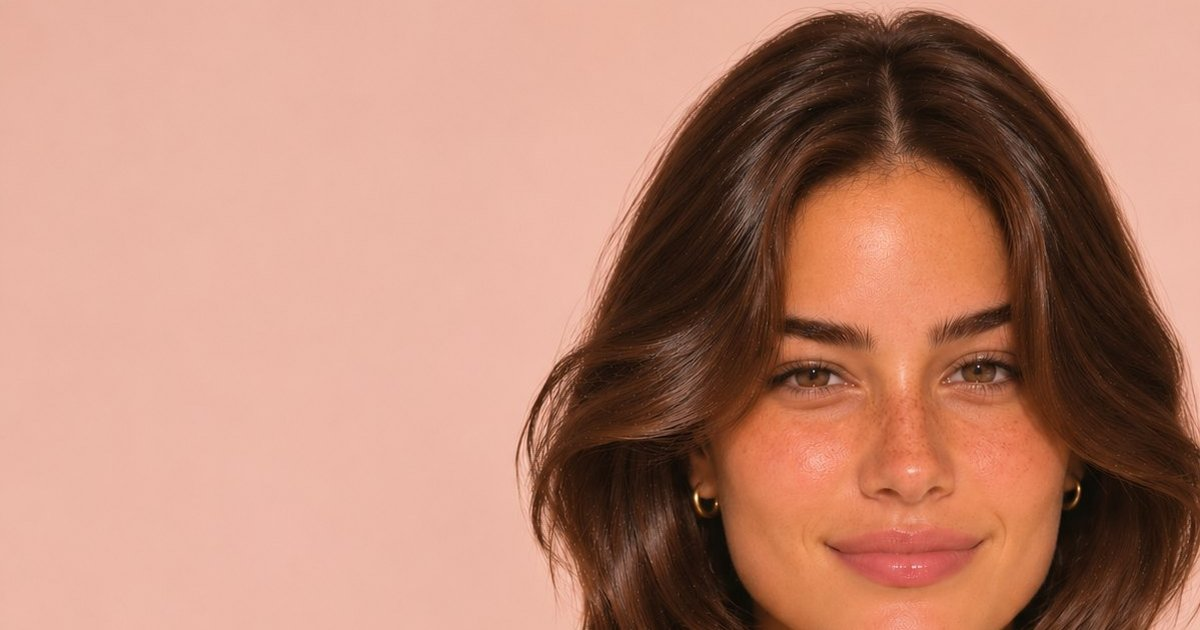
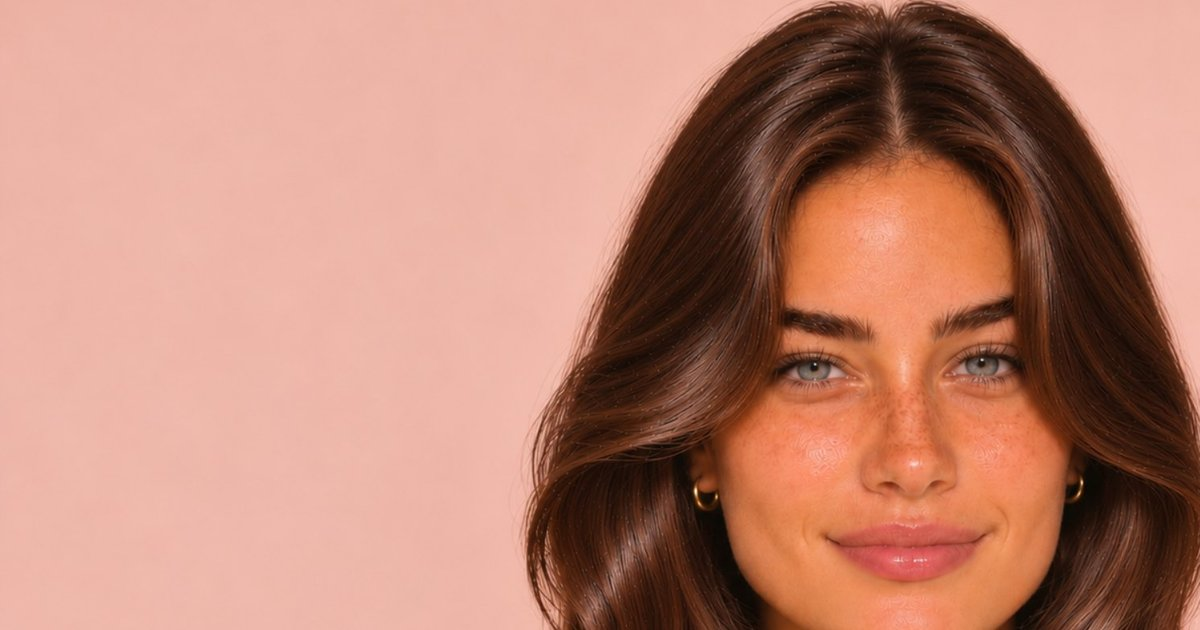
Swap in long-hair model photos for hero and applying
- New hero (holding the serum) and applying photos, black screenshot bars trimmed
- Old bob versions replaced; raw uploads IMG_2281/2282 removed
- Social sharing image rebuilt from the new hero
- Hero background tint matched to the new photo's wall; alt text updated
- Glow journey button kept on one line

Claude-Session: https://claude.ai/code/session_01XS5tgKz7MXN9xJooQaGrRs

diff --git a/components/home/Hero.tsx b/components/home/Hero.tsx
@@ -11,19 +11,19 @@ export function Hero() {
 
   return (
     // The background matches the photo's pink wall so the two blend together.
-    <section className="relative overflow-hidden bg-[#EAB6A6]" aria-labelledby="hero-title">
+    <section className="relative overflow-hidden bg-[#EDB6A9]" aria-labelledby="hero-title">
       {/* Phones: photo on top. Larger screens: photo fills the right side, text sits in the empty space on the left. */}
       <div className="relative aspect-[1199/1150] w-full md:absolute md:inset-y-0 md:right-0 md:aspect-auto md:w-[64%] lg:w-[60%]">
         <Image
           src={hero}
-          alt="smiling woman with a glossy brown bob holding a bottle of velle scalp serum"
+          alt="smiling woman with long, glossy brown waves holding a bottle of velle scalp serum"
           fill
           priority
           placeholder="blur"
           sizes="(min-width: 1024px) 60vw, (min-width: 768px) 64vw, 100vw"
           className="object-cover object-[50%_20%]"
         />
-        <div className="absolute inset-y-0 left-0 hidden w-28 bg-gradient-to-r from-[#EAB6A6] to-transparent md:block" />
+        <div className="absolute inset-y-0 left-0 hidden w-28 bg-gradient-to-r from-[#EDB6A9] to-transparent md:block" />
       </div>
 
       <div className="container-page relative flex md:min-h-[min(84vh,780px)] md:items-center">

diff --git a/components/home/GlowJourney.tsx b/components/home/GlowJourney.tsx
@@ -31,7 +31,7 @@ export function GlowJourney() {
             ))}
           </ol>
           <div className="mt-10 flex flex-col gap-4 md:flex-row md:items-center md:gap-6">
-            <Link href="/#pricing" className="btn-primary self-start">
+            <Link href="/#pricing" className="btn-primary self-start whitespace-nowrap">
               start your glow journey
             </Link>
             <p className="text-sm">cosmetic results with regular use. everyone&apos;s hair is different.</p>
@@ -40,7 +40,7 @@ export function GlowJourney() {
         <div className="relative aspect-[4/5] overflow-hidden rounded-[2rem]">
           <Image
             src={applying}
-            alt="woman with a bob dropping velle scalp serum onto her parting"
+            alt="woman with long, glossy brown waves dropping velle scalp serum onto her parting"
             fill
             placeholder="blur"
             sizes="(min-width: 768px) 45vw, 100vw"
